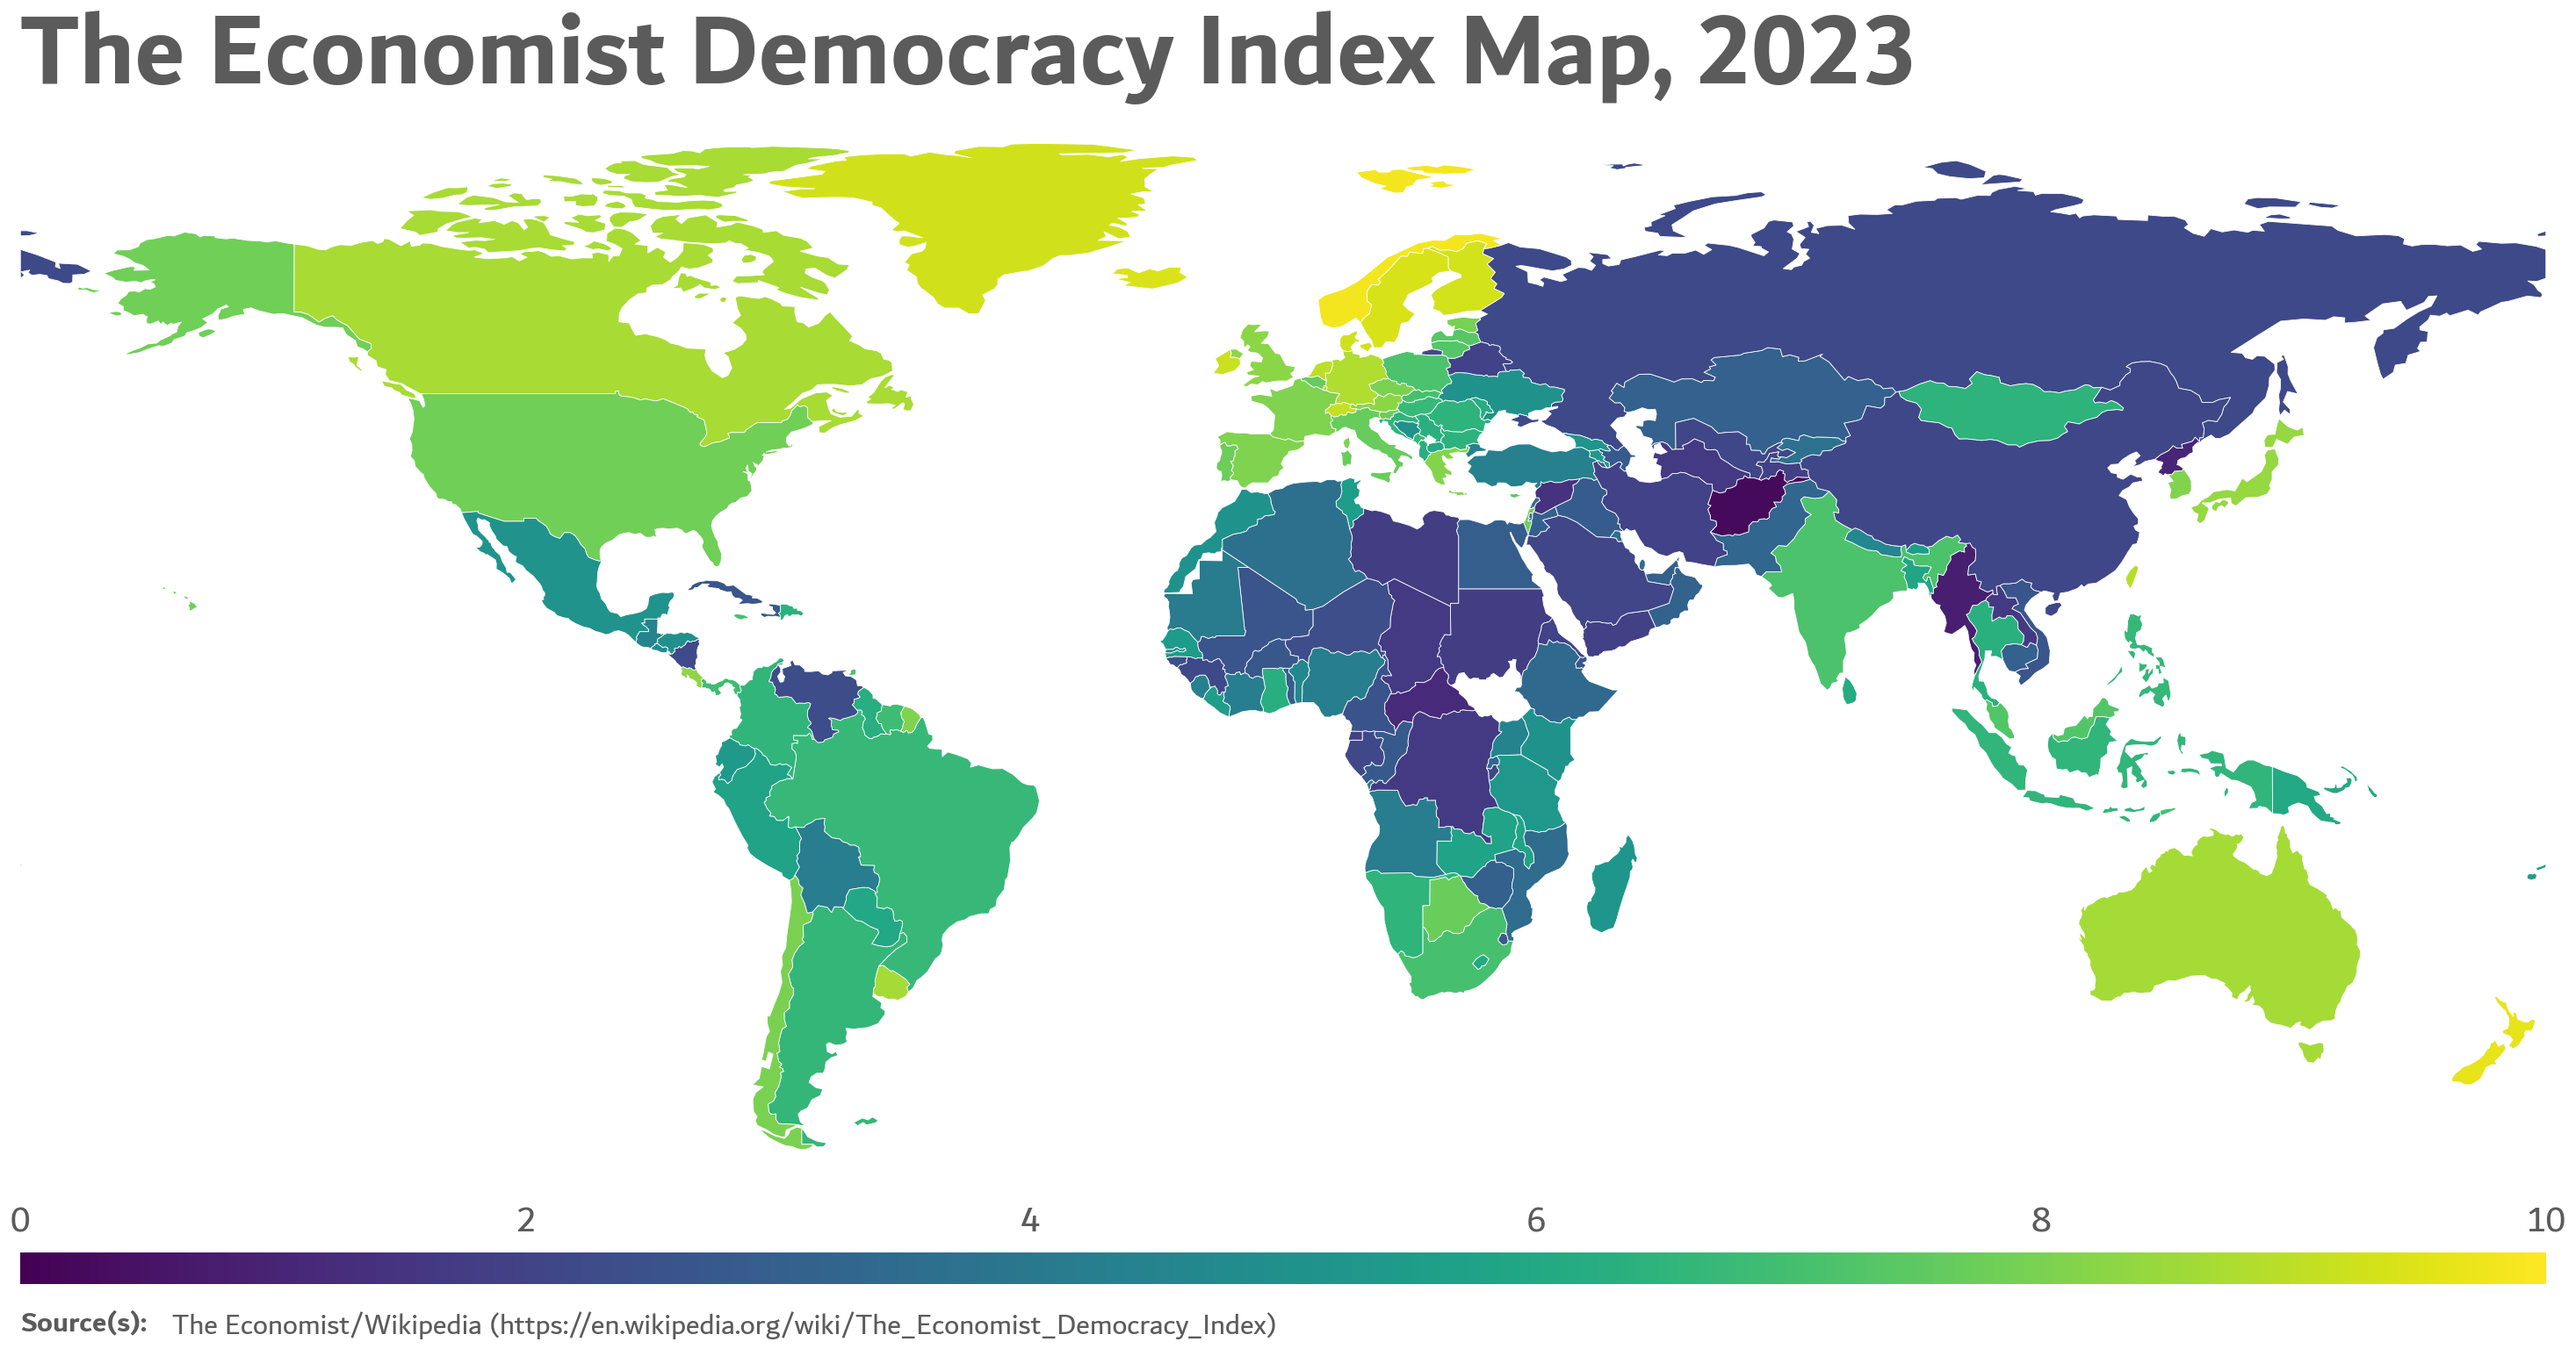
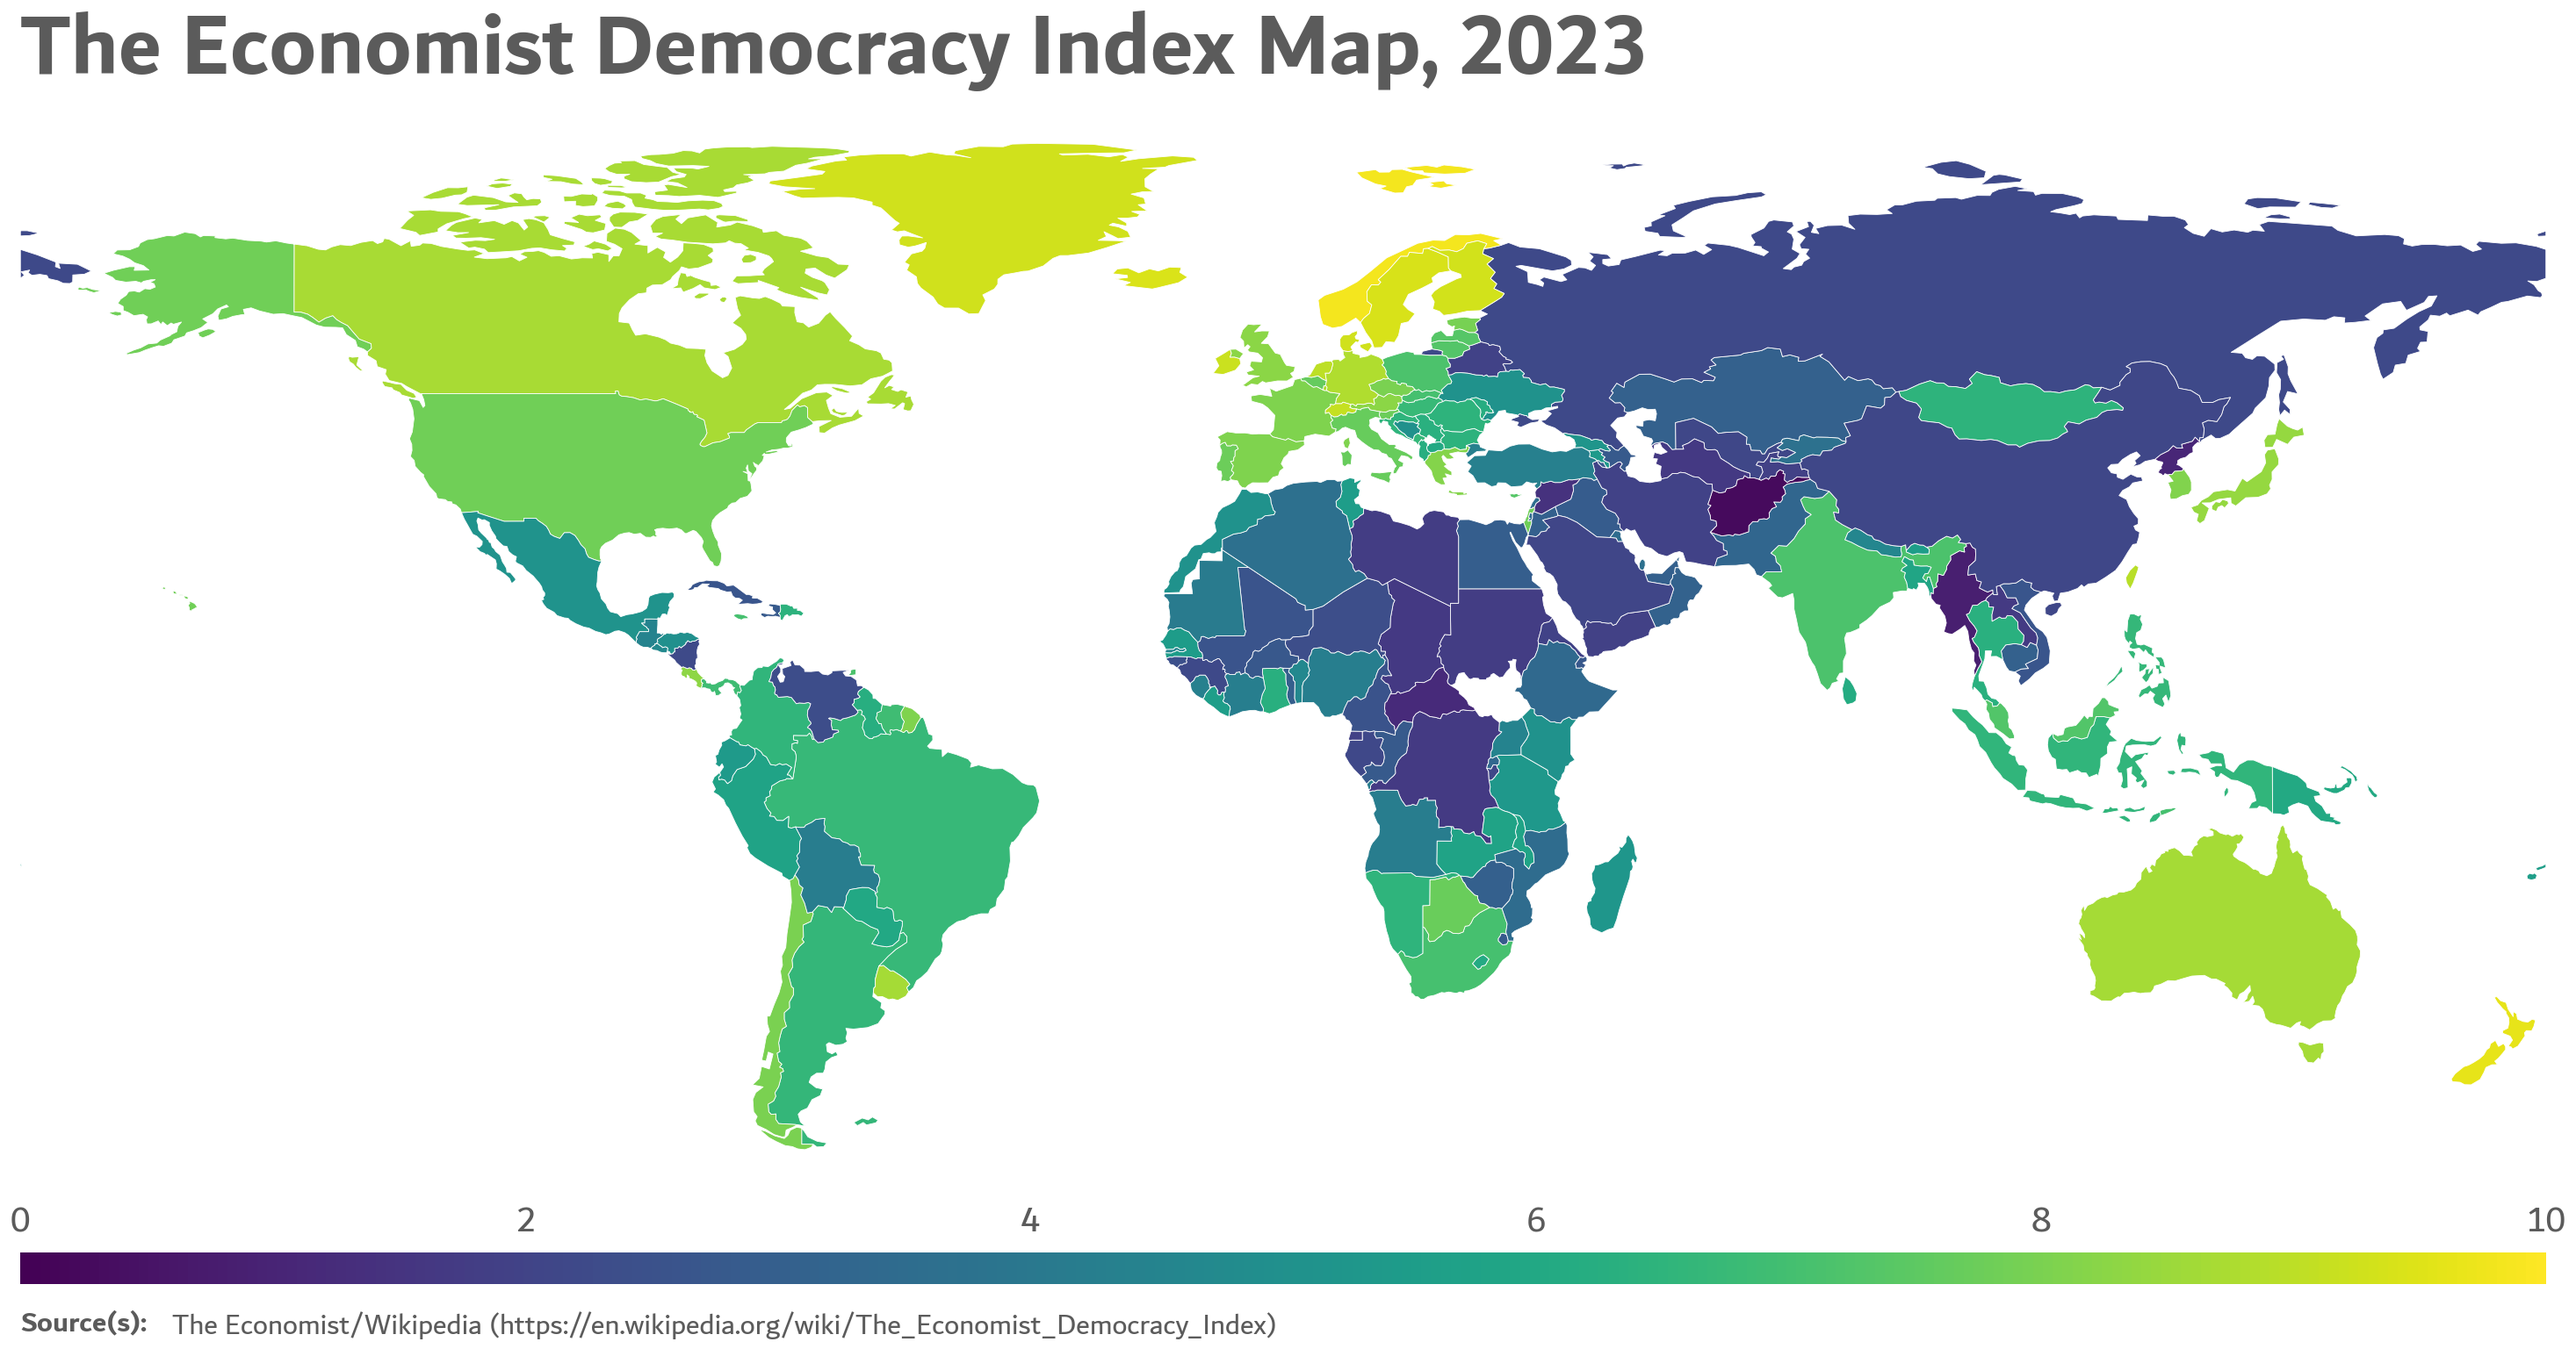
Update figure title.

Changed region(s): [[0.0, 0.0, 0.7446, 0.0937]]

diff --git a/src/plots.py b/src/plots.py
@@ -154,7 +154,7 @@ def plot_world_map_index():
 
     ax.text(
         s="The Economist Democracy Index Map, 2023",
-        x=0, y=1.075, weight=600, ha="left", va="top", size=14,
+        x=0, y=1.075, weight=600, ha="left", va="top", size=12,
         transform=ax.transAxes)
     ax.text(
         s="Source(s):",
